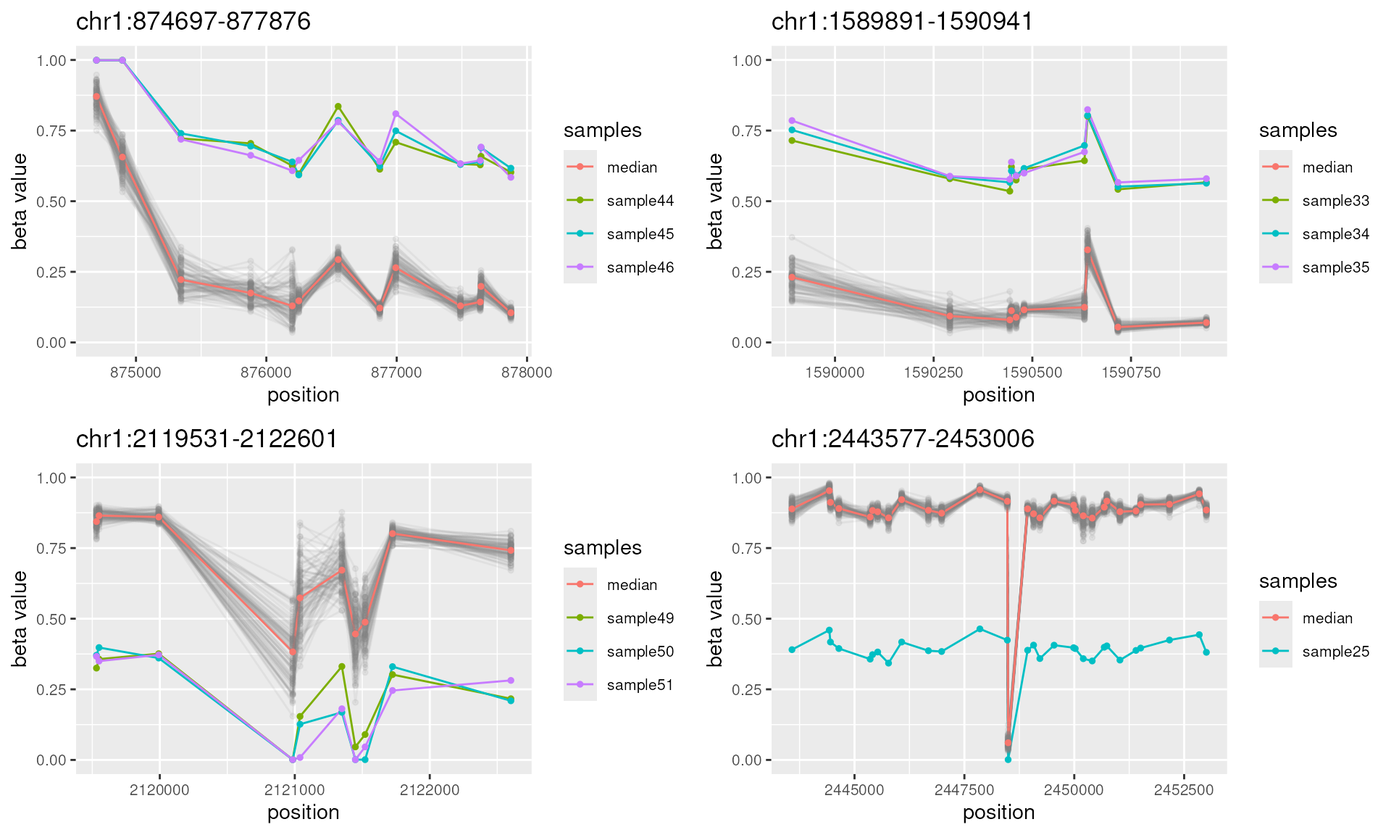
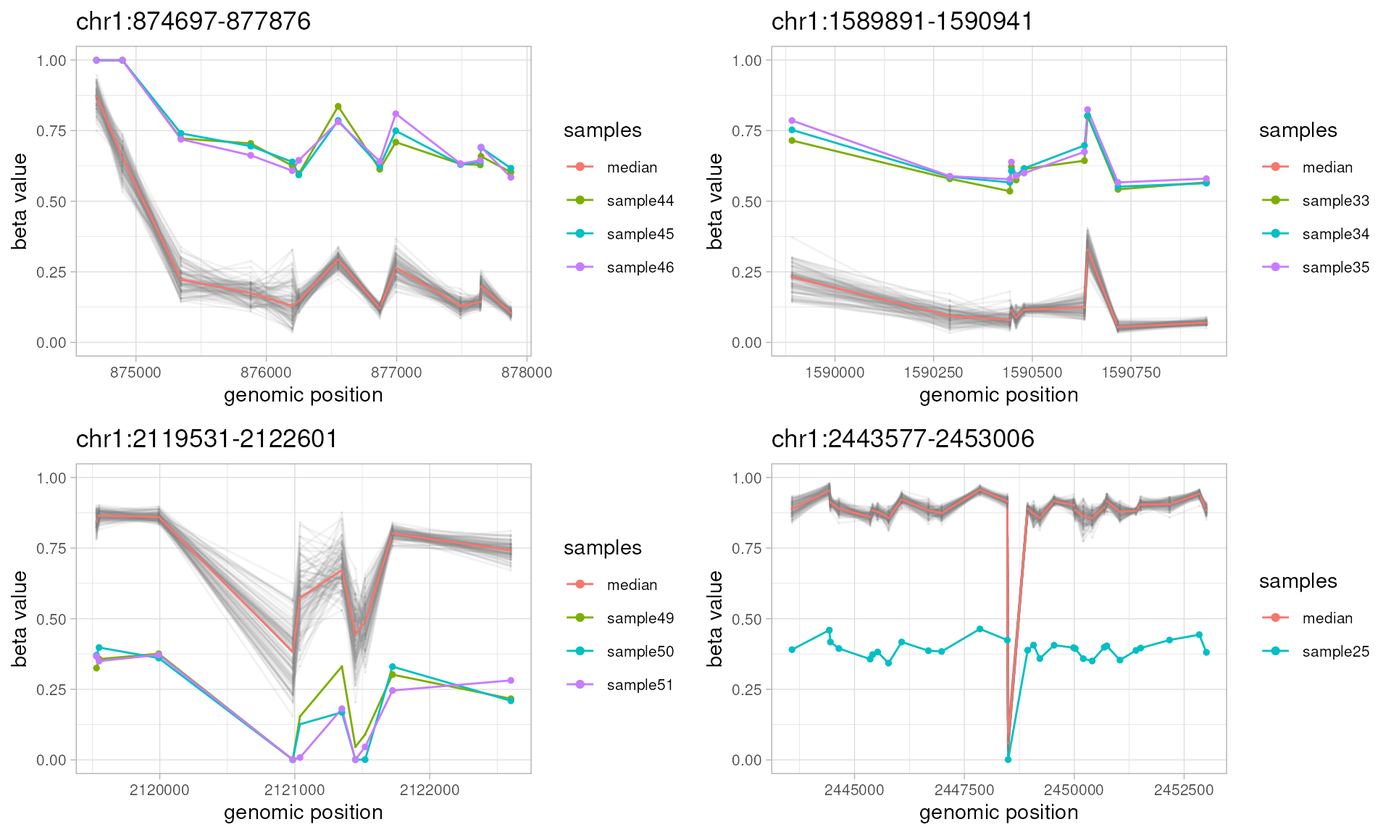
Deploying to gh-pages from @ BBCG/ramr@59148c3a7b9783a74a3e100e3e2ed06de37eb311 🚀

diff --git a/articles/ramr.html b/articles/ramr.html
@@ -20,7 +20,7 @@
 
     <a class="navbar-brand me-2" href="../index.html">ramr</a>
 
-    <small class="nav-text text-muted me-auto" data-bs-toggle="tooltip" data-bs-placement="bottom" title="">1.15.0</small>
+    <small class="nav-text text-muted me-auto" data-bs-toggle="tooltip" data-bs-placement="bottom" title="">1.15.1</small>
 
 
     <button class="navbar-toggler" type="button" data-bs-toggle="collapse" data-bs-target="#navbar" aria-controls="navbar" aria-expanded="false" aria-label="Toggle navigation">
@@ -54,7 +54,7 @@
                         <h4 data-toc-skip class="author">Oleksii
 Nikolaienko</h4>
             
-            <h4 data-toc-skip class="date">11 December, 2024</h4>
+            <h4 data-toc-skip class="date">17 December, 2024</h4>
       
       <small class="dont-index">Source: <a href="https://github.com/BBCG/ramr/blob/devel/vignettes/ramr.Rmd" class="external-link"><code>vignettes/ramr.Rmd</code></a></small>
       <div class="d-none name"><code>ramr.Rmd</code></div>
@@ -71,13 +71,13 @@ Nikolaienko</h4>
 <h2 id="introduction">Introduction<a class="anchor" aria-label="anchor" href="#introduction"></a>
 </h2>
 <p><em><code>ramr</code></em> is an R package for detection of
-low-frequency aberrant methylation events in large data sets obtained by
-methylation profiling using array or high-throughput bisulfite
-sequencing. In addition, package provides functions to visualize found
-aberrantly methylated regions (AMRs), to generate sets of all possible
-regions to be used as reference sets for enrichment analysis, and to
-generate biologically relevant test data sets for performance evaluation
-of AMR/DMR search algorithms.</p>
+low-frequency aberrant methylation events (epimutations) in large data
+sets obtained by methylation profiling using array or high-throughput
+bisulfite sequencing. In addition, package provides functions to
+visualize found aberrantly methylated regions (AMRs), to generate sets
+of all possible regions to be used as reference sets for enrichment
+analysis, and to generate biologically relevant test data sets for
+performance evaluation of AMR/DMR search algorithms.</p>
 <div class="section level3">
 <h3 id="current-features">Current Features<a class="anchor" aria-label="anchor" href="#current-features"></a>
 </h3>
@@ -123,8 +123,7 @@ which was simulated using GSE51032 data set as described in the
 (<em><code>ramr.tp.nonunique</code></em>) true positive AMRs containing
 at least 10 CpGs with their beta values increased/decreased by 0.5</p>
 <div class="sourceCode" id="cb2"><pre class="downlit sourceCode r">
-<code class="sourceCode R"><span><span class="kw"><a href="https://rdrr.io/r/base/library.html" class="external-link">library</a></span><span class="op">(</span><span class="va"><a href="https://github.com/BBCG/ramr" class="external-link">ramr</a></span><span class="op">)</span></span>
-<span><span class="co">#&gt; Loading required package: GenomicRanges</span></span>
+<code class="sourceCode R"><span><span class="kw"><a href="https://rdrr.io/r/base/library.html" class="external-link">library</a></span><span class="op">(</span><span class="va"><a href="https://bioconductor.org/packages/GenomicRanges" class="external-link">GenomicRanges</a></span><span class="op">)</span></span>
 <span><span class="co">#&gt; Loading required package: stats4</span></span>
 <span><span class="co">#&gt; Loading required package: BiocGenerics</span></span>
 <span><span class="co">#&gt; Loading required package: generics</span></span>
@@ -156,12 +155,8 @@ at least 10 CpGs with their beta values increased/decreased by 0.5</p>
 <span><span class="co">#&gt;     expand.grid, I, unname</span></span>
 <span><span class="co">#&gt; Loading required package: IRanges</span></span>
 <span><span class="co">#&gt; Loading required package: GenomeInfoDb</span></span>
-<span><span class="co">#&gt; Loading required package: parallel</span></span>
-<span><span class="co">#&gt; Loading required package: doParallel</span></span>
-<span><span class="co">#&gt; Loading required package: foreach</span></span>
-<span><span class="co">#&gt; Loading required package: iterators</span></span>
-<span><span class="co">#&gt; Loading required package: doRNG</span></span>
-<span><span class="co">#&gt; Loading required package: rngtools</span></span>
+<span><span class="kw"><a href="https://rdrr.io/r/base/library.html" class="external-link">library</a></span><span class="op">(</span><span class="va"><a href="https://ggplot2.tidyverse.org" class="external-link">ggplot2</a></span><span class="op">)</span></span>
+<span><span class="kw"><a href="https://rdrr.io/r/base/library.html" class="external-link">library</a></span><span class="op">(</span><span class="va"><a href="https://github.com/BBCG/ramr" class="external-link">ramr</a></span><span class="op">)</span></span>
 <span><span class="fu"><a href="https://rdrr.io/r/utils/data.html" class="external-link">data</a></span><span class="op">(</span><span class="va">ramr</span><span class="op">)</span></span>
 <span></span>
 <span><span class="fu"><a href="https://rdrr.io/r/utils/head.html" class="external-link">head</a></span><span class="op">(</span><span class="va">ramr.samples</span><span class="op">)</span></span>
@@ -298,14 +293,16 @@ seed has been set (thanks to doRNG::%dorng%).</p>
 <span><span class="co"># "smooth" methylation data without AMRs (negative control)</span></span>
 <span>  <span class="va">smooth.data</span> <span class="op">&lt;-</span></span>
 <span>    <span class="fu"><a href="../reference/simulateData.html">simulateData</a></span><span class="op">(</span><span class="va">ramr.data</span>, nsamples<span class="op">=</span><span class="fl">25</span>, cores<span class="op">=</span><span class="fl">2</span><span class="op">)</span></span>
-<span><span class="co">#&gt; Simulating data [0.666s]</span></span>
+<span><span class="co">#&gt; Simulating dataLoading required package: foreach</span></span>
+<span><span class="co">#&gt; Loading required package: rngtools</span></span>
+<span><span class="co">#&gt;  [0.713s]</span></span>
 <span>  </span>
 <span><span class="co"># methylation data with AMRs and noise</span></span>
 <span>  <span class="va">noisy.data</span> <span class="op">&lt;-</span></span>
 <span>    <span class="fu"><a href="../reference/simulateData.html">simulateData</a></span><span class="op">(</span><span class="va">ramr.data</span>, nsamples<span class="op">=</span><span class="fl">25</span>,</span>
 <span>                 amr.ranges<span class="op">=</span><span class="fu"><a href="https://rdrr.io/r/base/c.html" class="external-link">c</a></span><span class="op">(</span><span class="va">amrs.unique</span>, <span class="va">amrs.nonunique</span>, <span class="va">noise</span><span class="op">)</span>, cores<span class="op">=</span><span class="fl">2</span><span class="op">)</span></span>
-<span><span class="co">#&gt; Simulating data [0.646s]</span></span>
-<span><span class="co">#&gt; Introducing epimutations [0.033s]</span></span>
+<span><span class="co">#&gt; Simulating data [0.665s]</span></span>
+<span><span class="co">#&gt; Introducing epimutations [0.034s]</span></span>
 <span>  </span>
 <span><span class="co"># that's how regions look like</span></span>
 <span>  <span class="kw"><a href="https://rdrr.io/r/base/library.html" class="external-link">library</a></span><span class="op">(</span><span class="va">gridExtra</span><span class="op">)</span></span>
@@ -331,9 +328,9 @@ seed has been set (thanks to doRNG::%dorng%).</p>
 <span><span class="co"># can we find them?</span></span>
 <span>  <span class="fu"><a href="https://rdrr.io/r/base/system.time.html" class="external-link">system.time</a></span><span class="op">(</span><span class="va">found</span> <span class="op">&lt;-</span> <span class="fu"><a href="../reference/getAMR.html">getAMR</a></span><span class="op">(</span><span class="va">noisy.data</span>, ramr.method<span class="op">=</span><span class="st">"beta"</span>, min.cpgs<span class="op">=</span><span class="fl">5</span>,</span>
 <span>                              merge.window<span class="op">=</span><span class="fl">1000</span>, qval.cutoff<span class="op">=</span><span class="fl">1e-2</span>, cores<span class="op">=</span><span class="fl">2</span><span class="op">)</span><span class="op">)</span></span>
-<span><span class="co">#&gt; Identifying AMRs [1.700s]</span></span>
+<span><span class="co">#&gt; Identifying AMRs [1.826s]</span></span>
 <span><span class="co">#&gt;    user  system elapsed </span></span>
-<span><span class="co">#&gt;   2.460   0.596   1.837</span></span>
+<span><span class="co">#&gt;   2.547   0.764   1.962</span></span>
 <span>  </span>
 <span><span class="co"># all possible regions</span></span>
 <span>  <span class="va">all.ranges</span> <span class="op">&lt;-</span> <span class="fu"><a href="../reference/getUniverse.html">getUniverse</a></span><span class="op">(</span><span class="va">noisy.data</span>, min.cpgs<span class="op">=</span><span class="fl">5</span>, merge.window<span class="op">=</span><span class="fl">1000</span><span class="op">)</span></span>
@@ -369,7 +366,7 @@ seed has been set (thanks to doRNG::%dorng%).</p>
 <code class="sourceCode R"><span><span class="co"># identify AMRs</span></span>
 <span><span class="va">amrs</span> <span class="op">&lt;-</span> <span class="fu"><a href="../reference/getAMR.html">getAMR</a></span><span class="op">(</span><span class="va">ramr.data</span>, <span class="va">ramr.samples</span>, ramr.method<span class="op">=</span><span class="st">"beta"</span>, min.cpgs<span class="op">=</span><span class="fl">5</span>,</span>
 <span>               merge.window<span class="op">=</span><span class="fl">1000</span>, qval.cutoff<span class="op">=</span><span class="fl">1e-3</span>, cores<span class="op">=</span><span class="fl">2</span><span class="op">)</span></span>
-<span><span class="co">#&gt; Identifying AMRs [4.148s]</span></span>
+<span><span class="co">#&gt; Identifying AMRs [4.282s]</span></span>
 <span></span>
 <span><span class="co"># inspect</span></span>
 <span><span class="fu"><a href="https://rdrr.io/pkg/BiocGenerics/man/sort.html" class="external-link">sort</a></span><span class="op">(</span><span class="va">amrs</span><span class="op">)</span></span>
@@ -423,6 +420,9 @@ Pages 587–589, &lt;a href="https://doi.org/10.1093/bioinformatics/btv612" clas
 <div class="sourceCode" id="cb11"><pre class="downlit sourceCode r">
 <code class="sourceCode R"><span><span class="co"># annotating AMRs using R library annotatr</span></span>
 <span><span class="kw"><a href="https://rdrr.io/r/base/library.html" class="external-link">library</a></span><span class="op">(</span><span class="va">annotatr</span><span class="op">)</span></span>
+<span><span class="co">#&gt; Registered S3 method overwritten by 'bit':</span></span>
+<span><span class="co">#&gt;   method   from  </span></span>
+<span><span class="co">#&gt;   print.ri gamlss</span></span>
 <span><span class="va">annotation.types</span> <span class="op">&lt;-</span> <span class="fu"><a href="https://rdrr.io/r/base/c.html" class="external-link">c</a></span><span class="op">(</span><span class="st">"hg19_cpg_inter"</span>, <span class="st">"hg19_cpg_islands"</span>, <span class="st">"hg19_cpg_shores"</span>,</span>
 <span>                      <span class="st">"hg19_cpg_shelves"</span>, <span class="st">"hg19_genes_intergenic"</span>, <span class="st">"hg19_genes_promoters"</span>,</span>
 <span>                      <span class="st">"hg19_genes_5UTRs"</span>, <span class="st">"hg19_genes_firstexons"</span>, <span class="st">"hg19_genes_3UTRs"</span><span class="op">)</span></span>
@@ -494,7 +494,7 @@ aberrantly methylated regions, <a href="https://doi.org/10.18710/ED8HSD" class="
 </h3>
 <div class="sourceCode" id="cb13"><pre class="downlit sourceCode r">
 <code class="sourceCode R"><span><span class="fu"><a href="https://rdrr.io/r/utils/sessionInfo.html" class="external-link">sessionInfo</a></span><span class="op">(</span><span class="op">)</span></span>
-<span><span class="co">#&gt; R Under development (unstable) (2024-12-04 r87420)</span></span>
+<span><span class="co">#&gt; R Under development (unstable) (2024-12-13 r87441)</span></span>
 <span><span class="co">#&gt; Platform: x86_64-pc-linux-gnu</span></span>
 <span><span class="co">#&gt; Running under: Ubuntu 24.04.1 LTS</span></span>
 <span><span class="co">#&gt; </span></span>
@@ -512,19 +512,18 @@ aberrantly methylated regions, <a href="https://doi.org/10.18710/ED8HSD" class="
 <span><span class="co">#&gt; tzcode source: system (glibc)</span></span>
 <span><span class="co">#&gt; </span></span>
 <span><span class="co">#&gt; attached base packages:</span></span>
-<span><span class="co">#&gt; [1] parallel  stats4    stats     graphics  grDevices utils     datasets  methods   base     </span></span>
+<span><span class="co">#&gt; [1] stats4    stats     graphics  grDevices utils     datasets  methods   base     </span></span>
 <span><span class="co">#&gt; </span></span>
 <span><span class="co">#&gt; other attached packages:</span></span>
 <span><span class="co">#&gt;  [1] org.Hs.eg.db_3.20.0                     TxDb.Hsapiens.UCSC.hg19.knownGene_3.2.2</span></span>
 <span><span class="co">#&gt;  [3] GenomicFeatures_1.59.1                  AnnotationDbi_1.69.0                   </span></span>
 <span><span class="co">#&gt;  [5] Biobase_2.67.0                          annotatr_1.33.0                        </span></span>
-<span><span class="co">#&gt;  [7] gridExtra_2.3                           ramr_1.15.0                            </span></span>
-<span><span class="co">#&gt;  [9] doRNG_1.8.6                             rngtools_1.5.2                         </span></span>
-<span><span class="co">#&gt; [11] doParallel_1.0.17                       iterators_1.0.14                       </span></span>
-<span><span class="co">#&gt; [13] foreach_1.5.2                           GenomicRanges_1.59.1                   </span></span>
-<span><span class="co">#&gt; [15] GenomeInfoDb_1.43.2                     IRanges_2.41.2                         </span></span>
-<span><span class="co">#&gt; [17] S4Vectors_0.45.2                        BiocGenerics_0.53.3                    </span></span>
-<span><span class="co">#&gt; [19] generics_0.1.3                         </span></span>
+<span><span class="co">#&gt;  [7] gridExtra_2.3                           doRNG_1.8.6                            </span></span>
+<span><span class="co">#&gt;  [9] rngtools_1.5.2                          foreach_1.5.2                          </span></span>
+<span><span class="co">#&gt; [11] ramr_1.15.1                             ggplot2_3.5.1                          </span></span>
+<span><span class="co">#&gt; [13] GenomicRanges_1.59.1                    GenomeInfoDb_1.43.2                    </span></span>
+<span><span class="co">#&gt; [15] IRanges_2.41.2                          S4Vectors_0.45.2                       </span></span>
+<span><span class="co">#&gt; [17] BiocGenerics_0.53.3                     generics_0.1.3                         </span></span>
 <span><span class="co">#&gt; </span></span>
 <span><span class="co">#&gt; loaded via a namespace (and not attached):</span></span>
 <span><span class="co">#&gt;   [1] jsonlite_1.8.9              magrittr_2.0.3              farver_2.1.2               </span></span>
@@ -536,33 +535,36 @@ aberrantly methylated regions, <a href="https://doi.org/10.18710/ED8HSD" class="
 <span><span class="co">#&gt;  [19] sass_0.4.9                  pracma_2.4.4                bslib_0.8.0                </span></span>
 <span><span class="co">#&gt;  [22] htmlwidgets_1.6.4           desc_1.4.3                  plyr_1.8.9                 </span></span>
 <span><span class="co">#&gt;  [25] cachem_1.1.0                GenomicAlignments_1.43.0    mime_0.12                  </span></span>
-<span><span class="co">#&gt;  [28] lifecycle_1.0.4             pkgconfig_2.0.3             optimx_2024-12.2           </span></span>
-<span><span class="co">#&gt;  [31] Matrix_1.7-1                R6_2.5.1                    fastmap_1.2.0              </span></span>
-<span><span class="co">#&gt;  [34] GenomeInfoDbData_1.2.13     MatrixGenerics_1.19.0       digest_0.6.37              </span></span>
-<span><span class="co">#&gt;  [37] numDeriv_2016.8-1.1         colorspace_2.1-1            regioneR_1.39.0            </span></span>
-<span><span class="co">#&gt;  [40] textshaping_0.4.1           RSQLite_2.3.9               filelock_1.0.3             </span></span>
-<span><span class="co">#&gt;  [43] labeling_0.4.3              fansi_1.0.6                 httr_1.4.7                 </span></span>
-<span><span class="co">#&gt;  [46] abind_1.4-8                 compiler_4.5.0              bit64_4.5.2                </span></span>
-<span><span class="co">#&gt;  [49] withr_3.0.2                 BiocParallel_1.41.0         DBI_1.2.3                  </span></span>
-<span><span class="co">#&gt;  [52] rappdirs_0.3.3              DelayedArray_0.33.3         rjson_0.2.23               </span></span>
-<span><span class="co">#&gt;  [55] tools_4.5.0                 glue_1.8.0                  restfulr_0.0.15            </span></span>
-<span><span class="co">#&gt;  [58] grid_4.5.0                  reshape2_1.4.4              gtable_0.3.6               </span></span>
-<span><span class="co">#&gt;  [61] BSgenome_1.75.0             tzdb_0.4.0                  hms_1.1.3                  </span></span>
-<span><span class="co">#&gt;  [64] utf8_1.2.4                  XVector_0.47.0              BiocVersion_3.21.1         </span></span>
-<span><span class="co">#&gt;  [67] pillar_1.9.0                stringr_1.5.1               dplyr_1.1.4                </span></span>
-<span><span class="co">#&gt;  [70] BiocFileCache_2.15.0        lattice_0.22-6              rtracklayer_1.67.0         </span></span>
-<span><span class="co">#&gt;  [73] bit_4.5.0.1                 tidyselect_1.2.1            Biostrings_2.75.2          </span></span>
-<span><span class="co">#&gt;  [76] knitr_1.49                  ExtDist_0.7-2               SummarizedExperiment_1.37.0</span></span>
-<span><span class="co">#&gt;  [79] xfun_0.49                   matrixStats_1.4.1           stringi_1.8.4              </span></span>
-<span><span class="co">#&gt;  [82] UCSC.utils_1.3.0            yaml_2.3.10                 evaluate_1.0.1             </span></span>
-<span><span class="co">#&gt;  [85] codetools_0.2-20            tibble_3.2.1                BiocManager_1.30.25        </span></span>
-<span><span class="co">#&gt;  [88] cli_3.6.3                   systemfonts_1.1.0           munsell_0.5.1              </span></span>
-<span><span class="co">#&gt;  [91] jquerylib_0.1.4             Rcpp_1.0.13-1               EnvStats_3.0.0             </span></span>
-<span><span class="co">#&gt;  [94] dbplyr_2.5.0                png_0.1-8                   XML_3.99-0.17              </span></span>
-<span><span class="co">#&gt;  [97] pkgdown_2.1.1.9000          ggplot2_3.5.1               readr_2.1.5                </span></span>
-<span><span class="co">#&gt; [100] blob_1.2.4                  bitops_1.0-9                scales_1.3.0               </span></span>
-<span><span class="co">#&gt; [103] purrr_1.0.2                 crayon_1.5.3                rlang_1.1.4                </span></span>
-<span><span class="co">#&gt; [106] KEGGREST_1.47.0</span></span></code></pre></div>
+<span><span class="co">#&gt;  [28] lifecycle_1.0.4             iterators_1.0.14            pkgconfig_2.0.3            </span></span>
+<span><span class="co">#&gt;  [31] optimx_2024-12.2            Matrix_1.7-1                R6_2.5.1                   </span></span>
+<span><span class="co">#&gt;  [34] fastmap_1.2.0               GenomeInfoDbData_1.2.13     MatrixGenerics_1.19.0      </span></span>
+<span><span class="co">#&gt;  [37] digest_0.6.37               numDeriv_2016.8-1.1         colorspace_2.1-1           </span></span>
+<span><span class="co">#&gt;  [40] regioneR_1.39.0             textshaping_0.4.1           RSQLite_2.3.9              </span></span>
+<span><span class="co">#&gt;  [43] filelock_1.0.3              labeling_0.4.3              fansi_1.0.6                </span></span>
+<span><span class="co">#&gt;  [46] httr_1.4.7                  abind_1.4-8                 compiler_4.5.0             </span></span>
+<span><span class="co">#&gt;  [49] bit64_4.5.2                 withr_3.0.2                 doParallel_1.0.17          </span></span>
+<span><span class="co">#&gt;  [52] BiocParallel_1.41.0         DBI_1.2.3                   MASS_7.3-61                </span></span>
+<span><span class="co">#&gt;  [55] rappdirs_0.3.3              DelayedArray_0.33.3         rjson_0.2.23               </span></span>
+<span><span class="co">#&gt;  [58] tools_4.5.0                 glue_1.8.0                  restfulr_0.0.15            </span></span>
+<span><span class="co">#&gt;  [61] nlme_3.1-166                grid_4.5.0                  reshape2_1.4.4             </span></span>
+<span><span class="co">#&gt;  [64] gtable_0.3.6                BSgenome_1.75.0             tzdb_0.4.0                 </span></span>
+<span><span class="co">#&gt;  [67] data.table_1.16.4           hms_1.1.3                   utf8_1.2.4                 </span></span>
+<span><span class="co">#&gt;  [70] XVector_0.47.0              stringr_1.5.1               BiocVersion_3.21.1         </span></span>
+<span><span class="co">#&gt;  [73] pillar_1.9.0                splines_4.5.0               dplyr_1.1.4                </span></span>
+<span><span class="co">#&gt;  [76] BiocFileCache_2.15.0        lattice_0.22-6              survival_3.7-0             </span></span>
+<span><span class="co">#&gt;  [79] rtracklayer_1.67.0          bit_4.5.0.1                 gamlss.data_6.0-6          </span></span>
+<span><span class="co">#&gt;  [82] tidyselect_1.2.1            Biostrings_2.75.3           knitr_1.49                 </span></span>
+<span><span class="co">#&gt;  [85] ExtDist_0.7-2               SummarizedExperiment_1.37.0 xfun_0.49                  </span></span>
+<span><span class="co">#&gt;  [88] matrixStats_1.4.1           stringi_1.8.4               UCSC.utils_1.3.0           </span></span>
+<span><span class="co">#&gt;  [91] yaml_2.3.10                 evaluate_1.0.1              codetools_0.2-20           </span></span>
+<span><span class="co">#&gt;  [94] tibble_3.2.1                BiocManager_1.30.25         cli_3.6.3                  </span></span>
+<span><span class="co">#&gt;  [97] systemfonts_1.1.0           munsell_0.5.1               jquerylib_0.1.4            </span></span>
+<span><span class="co">#&gt; [100] Rcpp_1.0.13-1               EnvStats_3.0.0              dbplyr_2.5.0               </span></span>
+<span><span class="co">#&gt; [103] png_0.1-8                   XML_3.99-0.17               parallel_4.5.0             </span></span>
+<span><span class="co">#&gt; [106] pkgdown_2.1.1.9000          readr_2.1.5                 blob_1.2.4                 </span></span>
+<span><span class="co">#&gt; [109] bitops_1.0-9                gamlss.dist_6.1-1           scales_1.3.0               </span></span>
+<span><span class="co">#&gt; [112] gamlss_5.4-22               purrr_1.0.2                 crayon_1.5.3               </span></span>
+<span><span class="co">#&gt; [115] rlang_1.1.4                 KEGGREST_1.47.0</span></span></code></pre></div>
 </div>
 </div>
 <div class="section level2">

diff --git a/index.html b/index.html
@@ -11,8 +11,8 @@
 <script src="deps/bootstrap-5.3.1/bootstrap.bundle.min.js"></script><link href="deps/font-awesome-6.5.2/css/all.min.css" rel="stylesheet">
 <link href="deps/font-awesome-6.5.2/css/v4-shims.min.css" rel="stylesheet">
 <script src="deps/headroom-0.11.0/headroom.min.js"></script><script src="deps/headroom-0.11.0/jQuery.headroom.min.js"></script><script src="deps/bootstrap-toc-1.0.1/bootstrap-toc.min.js"></script><script src="deps/clipboard.js-2.0.11/clipboard.min.js"></script><script src="deps/search-1.0.0/autocomplete.jquery.min.js"></script><script src="deps/search-1.0.0/fuse.min.js"></script><script src="deps/search-1.0.0/mark.min.js"></script><script src="deps/MathJax-3.2.2/tex-chtml.min.js"></script><!-- pkgdown --><script src="pkgdown.js"></script><meta property="og:title" content="Detection of Rare Aberrantly Methylated Regions in Array and NGS Data">
-<meta name="description" content="ramr is an R package for detection of low-frequency aberrant methylation events in large data sets obtained by methylation profiling using array or high-throughput bisulfite sequencing. In addition, package provides functions to visualize found aberrantly methylated regions (AMRs), to generate sets of all possible regions to be used as reference sets for enrichment analysis, and to generate biologically relevant test data sets for performance evaluation of AMR/DMR search algorithms.">
-<meta property="og:description" content="ramr is an R package for detection of low-frequency aberrant methylation events in large data sets obtained by methylation profiling using array or high-throughput bisulfite sequencing. In addition, package provides functions to visualize found aberrantly methylated regions (AMRs), to generate sets of all possible regions to be used as reference sets for enrichment analysis, and to generate biologically relevant test data sets for performance evaluation of AMR/DMR search algorithms.">
+<meta name="description" content="ramr is an R package for detection of epimutations (i.e., infrequent aberrant DNA methylation events) in large data sets obtained by methylation profiling using array or high-throughput methylation sequencing. In addition, package provides functions to visualize found aberrantly methylated regions (AMRs), to generate sets of all possible regions to be used as reference sets for enrichment analysis, and to generate biologically relevant test data sets for performance evaluation of AMR/DMR search algorithms.">
+<meta property="og:description" content="ramr is an R package for detection of epimutations (i.e., infrequent aberrant DNA methylation events) in large data sets obtained by methylation profiling using array or high-throughput methylation sequencing. In addition, package provides functions to visualize found aberrantly methylated regions (AMRs), to generate sets of all possible regions to be used as reference sets for enrichment analysis, and to generate biologically relevant test data sets for performance evaluation of AMR/DMR search algorithms.">
 </head>
 <body>
     <a href="#main" class="visually-hidden-focusable">Skip to contents</a>
@@ -22,7 +22,7 @@
 
     <a class="navbar-brand me-2" href="index.html">ramr</a>
 
-    <small class="nav-text text-muted me-auto" data-bs-toggle="tooltip" data-bs-placement="bottom" title="">1.15.0</small>
+    <small class="nav-text text-muted me-auto" data-bs-toggle="tooltip" data-bs-placement="bottom" title="">1.15.1</small>
 
 
     <button class="navbar-toggler" type="button" data-bs-toggle="collapse" data-bs-target="#navbar" aria-controls="navbar" aria-expanded="false" aria-label="Toggle navigation">
@@ -60,7 +60,12 @@
 <h2 id="current-features">Current Features<a class="anchor" aria-label="anchor" href="#current-features"></a>
 </h2>
 <ul>
-<li>Identification of aberrantly methylated regions (AMRs)</li>
+<li>Identification of aberrantly methylated regions (AMRs)
+<ul>
+<li>filtering by interquartile range (IQR)</li>
+<li>filtering by fitting non-weighted, weighted, or one-and-zero inflated beta distributions</li>
+</ul>
+</li>
 <li>AMR visualization</li>
 <li>Generation of reference sets for third-party analyses (e.g. enrichment)</li>
 <li>Generation of test data sets for performance evaluation of algorithms for search of differentially (DMR) or aberrantly (AMR) methylated regions</li>

diff --git a/reference/plotAMR.html b/reference/plotAMR.html
@@ -9,7 +9,7 @@ at particular genomic locations."></head><body>
 
     <a class="navbar-brand me-2" href="../index.html">ramr</a>
 
-    <small class="nav-text text-muted me-auto" data-bs-toggle="tooltip" data-bs-placement="bottom" title="">1.15.0</small>
+    <small class="nav-text text-muted me-auto" data-bs-toggle="tooltip" data-bs-placement="bottom" title="">1.15.1</small>
 
 
     <button class="navbar-toggler" type="button" data-bs-toggle="collapse" data-bs-target="#navbar" aria-controls="navbar" aria-expanded="false" aria-label="Toggle navigation">
@@ -48,6 +48,7 @@ at particular genomic locations.</p>
 <span>  <span class="va">amr.ranges</span>,</span>
 <span>  highlight <span class="op">=</span> <span class="cn">NULL</span>,</span>
 <span>  title <span class="op">=</span> <span class="cn">NULL</span>,</span>
+<span>  labs <span class="op">=</span> <span class="fu"><a href="https://rdrr.io/r/base/c.html" class="external-link">c</a></span><span class="op">(</span><span class="st">"genomic position"</span>, <span class="st">"beta value"</span><span class="op">)</span>,</span>
 <span>  window <span class="op">=</span> <span class="fl">300</span></span>
 <span><span class="op">)</span></span></code></pre></div>
     </div>
@@ -81,6 +82,11 @@ default), will contain sample IDs from the `sample` metadata column of
 <dt id="arg-title">title<a class="anchor" aria-label="anchor" href="#arg-title"></a></dt>
 <dd><p>An optional title for the plot. If NULL (the default), plot
 title is set to a genomic location of particular AMR.</p></dd>
+
+
+<dt id="arg-labs">labs<a class="anchor" aria-label="anchor" href="#arg-labs"></a></dt>
+<dd><p>Optional axis labels for the plot. Default: c("genomic position",
+"beta value").</p></dd>
 
 
 <dt id="arg-window">window<a class="anchor" aria-label="anchor" href="#arg-window"></a></dt>
@@ -117,11 +123,6 @@ usage and sample data.</p></div>
 <span class="r-plt img"><img src="plotAMR-1.png" alt="" width="700" height="433"></span>
 <span class="r-out co"><span class="r-pr">#&gt;</span> </span>
 <span class="r-in"><span>  <span class="kw"><a href="https://rdrr.io/r/base/library.html" class="external-link">library</a></span><span class="op">(</span><span class="va">gridExtra</span><span class="op">)</span></span></span>
-<span class="r-msg co"><span class="r-pr">#&gt;</span> </span>
-<span class="r-msg co"><span class="r-pr">#&gt;</span> Attaching package: ‘gridExtra’</span>
-<span class="r-msg co"><span class="r-pr">#&gt;</span> The following object is masked from ‘package:BiocGenerics’:</span>
-<span class="r-msg co"><span class="r-pr">#&gt;</span> </span>
-<span class="r-msg co"><span class="r-pr">#&gt;</span>     combine</span>
 <span class="r-in"><span>  <span class="fu"><a href="https://rdrr.io/pkg/BiocGenerics/man/do.call.html" class="external-link">do.call</a></span><span class="op">(</span><span class="st">"grid.arrange"</span>,</span></span>
 <span class="r-in"><span>          <span class="fu"><a href="https://rdrr.io/r/base/c.html" class="external-link">c</a></span><span class="op">(</span><span class="fu">plotAMR</span><span class="op">(</span><span class="va">ramr.data</span>, <span class="va">ramr.samples</span>, <span class="va">ramr.tp.nonunique</span><span class="op">)</span>, ncol<span class="op">=</span><span class="fl">2</span><span class="op">)</span><span class="op">)</span></span></span>
 <span class="r-plt img"><img src="plotAMR-2.png" alt="" width="700" height="433"></span>

diff --git a/reference/simulateData.html b/reference/simulateData.html
@@ -17,7 +17,7 @@ methylated regions."></head><body>
 
     <a class="navbar-brand me-2" href="../index.html">ramr</a>
 
-    <small class="nav-text text-muted me-auto" data-bs-toggle="tooltip" data-bs-placement="bottom" title="">1.15.0</small>
+    <small class="nav-text text-muted me-auto" data-bs-toggle="tooltip" data-bs-placement="bottom" title="">1.15.1</small>
 
 
     <button class="navbar-toggler" type="button" data-bs-toggle="collapse" data-bs-target="#navbar" aria-controls="navbar" aria-expanded="false" aria-label="Toggle navigation">
@@ -174,9 +174,9 @@ usage and sample data.</p></div>
 <span class="r-in"><span>  <span class="va">noisy.data</span> <span class="op">&lt;-</span></span></span>
 <span class="r-in"><span>    <span class="fu">simulateData</span><span class="op">(</span><span class="va">ramr.data</span>, nsamples<span class="op">=</span><span class="fl">10</span>, amr.ranges<span class="op">=</span><span class="fu"><a href="https://rdrr.io/r/base/c.html" class="external-link">c</a></span><span class="op">(</span><span class="va">amrs</span>,<span class="va">noise</span><span class="op">)</span>, cores<span class="op">=</span><span class="fl">2</span><span class="op">)</span></span></span>
 <span class="r-msg co"><span class="r-pr">#&gt;</span> Simulating data</span>
-<span class="r-msg co"><span class="r-pr">#&gt;</span>  [0.743s]</span>
+<span class="r-msg co"><span class="r-pr">#&gt;</span>  [0.701s]</span>
 <span class="r-msg co"><span class="r-pr">#&gt;</span> Introducing epimutations</span>
-<span class="r-msg co"><span class="r-pr">#&gt;</span>  [0.017s]</span>
+<span class="r-msg co"><span class="r-pr">#&gt;</span>  [0.019s]</span>
 <span class="r-in"><span>  <span class="fu"><a href="plotAMR.html">plotAMR</a></span><span class="op">(</span><span class="va">noisy.data</span>, amr.ranges<span class="op">=</span><span class="va">amrs</span><span class="op">[</span><span class="fl">1</span><span class="op">]</span><span class="op">)</span></span></span>
 <span class="r-out co"><span class="r-pr">#&gt;</span> [[1]]</span>
 <span class="r-plt img"><img src="simulateData-1.png" alt="" width="700" height="433"></span>

diff --git a/reference/ramr.data.html b/reference/ramr.data.html
@@ -17,7 +17,7 @@ increased/decreased by 0.5.'></head><body>
 
     <a class="navbar-brand me-2" href="../index.html">ramr</a>
 
-    <small class="nav-text text-muted me-auto" data-bs-toggle="tooltip" data-bs-placement="bottom" title="">1.15.0</small>
+    <small class="nav-text text-muted me-auto" data-bs-toggle="tooltip" data-bs-placement="bottom" title="">1.15.1</small>
 
 
     <button class="navbar-toggler" type="button" data-bs-toggle="collapse" data-bs-target="#navbar" aria-controls="navbar" aria-expanded="false" aria-label="Toggle navigation">
@@ -74,7 +74,7 @@ ramr.tp.nonunique"</code>) and <code>"character"</code> (<code>"ramr.samples"</c
 <span class="r-in"><span>  <span class="va">amrs</span> <span class="op">&lt;-</span> <span class="fu"><a href="getAMR.html">getAMR</a></span><span class="op">(</span><span class="va">ramr.data</span>, <span class="va">ramr.samples</span>, ramr.method<span class="op">=</span><span class="st">"beta"</span>, min.cpgs<span class="op">=</span><span class="fl">5</span>,</span></span>
 <span class="r-in"><span>                 merge.window<span class="op">=</span><span class="fl">1000</span>, qval.cutoff<span class="op">=</span><span class="fl">1e-3</span>, cores<span class="op">=</span><span class="fl">2</span><span class="op">)</span></span></span>
 <span class="r-msg co"><span class="r-pr">#&gt;</span> Identifying AMRs</span>
-<span class="r-msg co"><span class="r-pr">#&gt;</span>  [4.382s]</span>
+<span class="r-msg co"><span class="r-pr">#&gt;</span>  [4.445s]</span>
 <span class="r-in"><span>  <span class="fu"><a href="plotAMR.html">plotAMR</a></span><span class="op">(</span><span class="va">ramr.data</span>, <span class="va">ramr.samples</span>, <span class="va">amrs</span><span class="op">[</span><span class="fl">1</span><span class="op">]</span><span class="op">)</span></span></span>
 <span class="r-out co"><span class="r-pr">#&gt;</span> [[1]]</span>
 <span class="r-plt img"><img src="ramr.data-1.png" alt="" width="700" height="433"></span>

diff --git a/reference/getUniverse.html b/reference/getUniverse.html
@@ -9,7 +9,7 @@ data set, that can be used for AMR enrichment analysis"></head><body>
 
     <a class="navbar-brand me-2" href="../index.html">ramr</a>
 
-    <small class="nav-text text-muted me-auto" data-bs-toggle="tooltip" data-bs-placement="bottom" title="">1.15.0</small>
+    <small class="nav-text text-muted me-auto" data-bs-toggle="tooltip" data-bs-placement="bottom" title="">1.15.1</small>
 
 
     <button class="navbar-toggler" type="button" data-bs-toggle="collapse" data-bs-target="#navbar" aria-controls="navbar" aria-expanded="false" aria-label="Toggle navigation">
@@ -97,7 +97,7 @@ and `ramr` vignettes for the description of usage and sample data.</p></div>
 <span class="r-in"><span>  <span class="va">amrs</span> <span class="op">&lt;-</span> <span class="fu"><a href="getAMR.html">getAMR</a></span><span class="op">(</span><span class="va">ramr.data</span>, <span class="va">ramr.samples</span>, ramr.method<span class="op">=</span><span class="st">"beta"</span>, min.cpgs<span class="op">=</span><span class="fl">5</span>,</span></span>
 <span class="r-in"><span>                 merge.window<span class="op">=</span><span class="fl">1000</span>, qval.cutoff<span class="op">=</span><span class="fl">1e-3</span>, cores<span class="op">=</span><span class="fl">2</span><span class="op">)</span></span></span>
 <span class="r-msg co"><span class="r-pr">#&gt;</span> Identifying AMRs</span>
-<span class="r-msg co"><span class="r-pr">#&gt;</span>  [4.388s]</span>
+<span class="r-msg co"><span class="r-pr">#&gt;</span>  [4.227s]</span>
 <span class="r-in"><span></span></span>
 <span class="r-in"><span>  <span class="co"># AMR enrichment analysis using LOLA</span></span></span>
 <span class="r-in"><span>  <span class="kw"><a href="https://rdrr.io/r/base/library.html" class="external-link">library</a></span><span class="op">(</span><span class="va"><a href="http://code.databio.org/LOLA" class="external-link">LOLA</a></span><span class="op">)</span></span></span>

diff --git a/reference/simulateAMR.html b/reference/simulateAMR.html
@@ -11,7 +11,7 @@ selected aberrantly methylated regions (AMRs) to be used as an input for the
 
     <a class="navbar-brand me-2" href="../index.html">ramr</a>
 
-    <small class="nav-text text-muted me-auto" data-bs-toggle="tooltip" data-bs-placement="bottom" title="">1.15.0</small>
+    <small class="nav-text text-muted me-auto" data-bs-toggle="tooltip" data-bs-placement="bottom" title="">1.15.1</small>
 
 
     <button class="navbar-toggler" type="button" data-bs-toggle="collapse" data-bs-target="#navbar" aria-controls="navbar" aria-expanded="false" aria-label="Toggle navigation">

diff --git a/articles/index.html b/articles/index.html
@@ -7,7 +7,7 @@
 
     <a class="navbar-brand me-2" href="../index.html">ramr</a>
 
-    <small class="nav-text text-muted me-auto" data-bs-toggle="tooltip" data-bs-placement="bottom" title="">1.15.0</small>
+    <small class="nav-text text-muted me-auto" data-bs-toggle="tooltip" data-bs-placement="bottom" title="">1.15.1</small>
 
 
     <button class="navbar-toggler" type="button" data-bs-toggle="collapse" data-bs-target="#navbar" aria-controls="navbar" aria-expanded="false" aria-label="Toggle navigation">

diff --git a/reference/index.html b/reference/index.html
@@ -7,7 +7,7 @@
 
     <a class="navbar-brand me-2" href="../index.html">ramr</a>
 
-    <small class="nav-text text-muted me-auto" data-bs-toggle="tooltip" data-bs-placement="bottom" title="">1.15.0</small>
+    <small class="nav-text text-muted me-auto" data-bs-toggle="tooltip" data-bs-placement="bottom" title="">1.15.1</small>
 
 
     <button class="navbar-toggler" type="button" data-bs-toggle="collapse" data-bs-target="#navbar" aria-controls="navbar" aria-expanded="false" aria-label="Toggle navigation">

diff --git a/404.html b/404.html
@@ -20,7 +20,7 @@
 
     <a class="navbar-brand me-2" href="index.html">ramr</a>
 
-    <small class="nav-text text-muted me-auto" data-bs-toggle="tooltip" data-bs-placement="bottom" title="">1.15.0</small>
+    <small class="nav-text text-muted me-auto" data-bs-toggle="tooltip" data-bs-placement="bottom" title="">1.15.1</small>
 
 
     <button class="navbar-toggler" type="button" data-bs-toggle="collapse" data-bs-target="#navbar" aria-controls="navbar" aria-expanded="false" aria-label="Toggle navigation">

diff --git a/authors.html b/authors.html
@@ -7,7 +7,7 @@
 
     <a class="navbar-brand me-2" href="index.html">ramr</a>
 
-    <small class="nav-text text-muted me-auto" data-bs-toggle="tooltip" data-bs-placement="bottom" title="">1.15.0</small>
+    <small class="nav-text text-muted me-auto" data-bs-toggle="tooltip" data-bs-placement="bottom" title="">1.15.1</small>
 
 
     <button class="navbar-toggler" type="button" data-bs-toggle="collapse" data-bs-target="#navbar" aria-controls="navbar" aria-expanded="false" aria-label="Toggle navigation">
